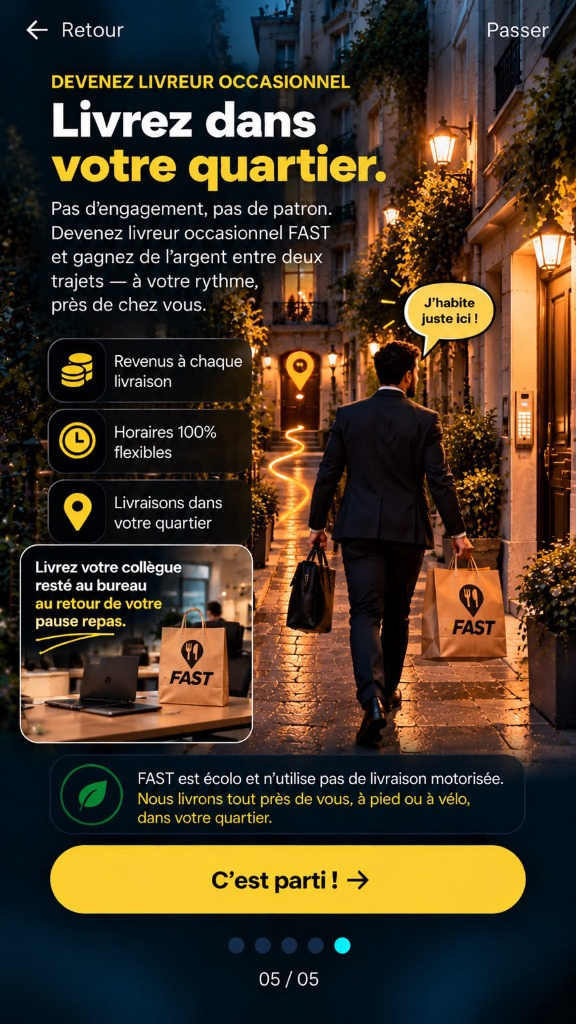
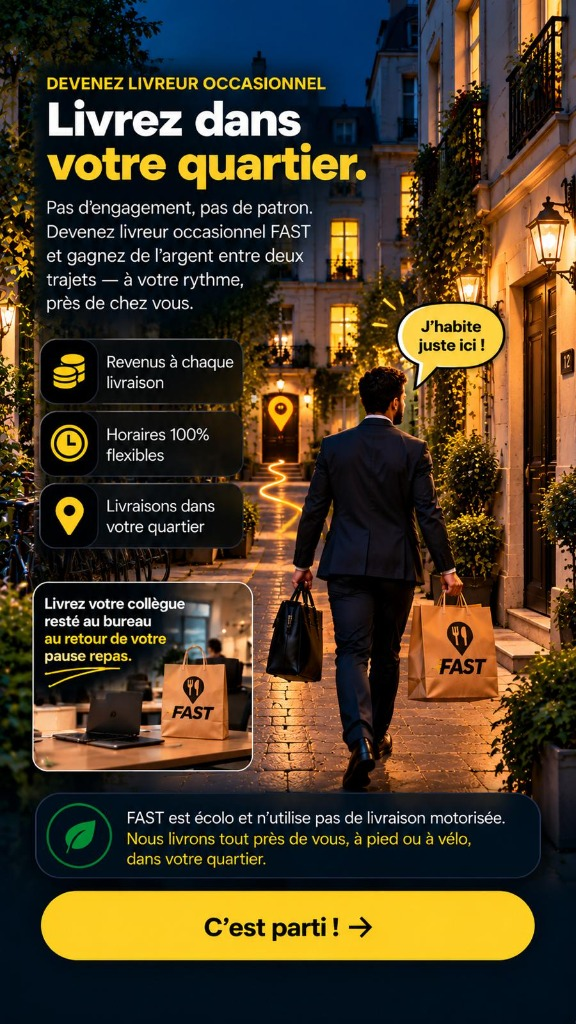
Intro slides: per-slide Suivant zones, fix Pro dot order, new client slide 4
The baked pill sits at a different height on every slide (Pro slide 2
notably higher), so hit zones are now one rect per image. Pro slides 3
and 4 are swapped to match the page dots drawn in the artwork. Client
slide 4 replaced with the dotless "C'est parti" artwork.

Generated with [Devin](https://devin.ai)

diff --git a/fastMobileApp/fastRestoBigbonney/test/widget_test.dart b/fastMobileApp/fastRestoBigbonney/test/widget_test.dart
@@ -170,72 +170,93 @@ void main() {
     await tester.pumpWidget(const SizedBox.shrink());
   });
 
-  testWidgets('Intro slides: baked buttons hit on a tall phone', (tester) async {
-    SharedPreferences.setMockInitialValues({});
-    // 9:19.5 phone — the 9:16 artwork must letterbox, not crop.
-    tester.view.physicalSize = const Size(1080, 2340);
-    tester.view.devicePixelRatio = 1;
-    addTearDown(tester.view.reset);
+  // Measured centre of the baked Suivant / Commencer / C'est parti pill on
+  // each slide (fractions of the 576x1024 artwork). The test taps these
+  // exact pixels, so a hit-zone regression on any slide fails it.
+  const proPillY = [0.905, 0.877, 0.902, 0.904];
+  const clientPillY = [0.886, 0.866, 0.866, 0.906];
 
-    var done = 0, back = 0;
-    PageController controllerOf(WidgetTester t) =>
-        t.widget<PageView>(find.byType(PageView)).controller!;
-    await tester.pumpWidget(
-      ChangeNotifierProvider(
-        create: (_) => FASTProvider(),
-        child: MaterialApp(
-          home: ProIntroSlides(
-            nextButtonRect: ProIntroSlides.clientNextRect,
-            onDone: () => done++,
-            onBack: () => back++,
+  for (final set in [
+    (name: 'Pro', images: ProIntroSlides.proImages,
+     rects: ProIntroSlides.proNextRects, pills: proPillY,
+     key: ProIntroSlides.proDismissedKey),
+    (name: 'client', images: ProIntroSlides.clientImages,
+     rects: ProIntroSlides.clientNextRects, pills: clientPillY,
+     key: ProIntroSlides.clientDismissedKey),
+  ]) {
+    testWidgets('${set.name} intro slides: baked buttons hit on a tall phone',
+        (tester) async {
+      SharedPreferences.setMockInitialValues({});
+      // 9:19.5 phone — the 9:16 artwork must letterbox, not crop.
+      tester.view.physicalSize = const Size(1080, 2340);
+      tester.view.devicePixelRatio = 1;
+      addTearDown(tester.view.reset);
+
+      var done = 0, back = 0;
+      PageController controllerOf(WidgetTester t) =>
+          t.widget<PageView>(find.byType(PageView)).controller!;
+      await tester.pumpWidget(
+        ChangeNotifierProvider(
+          create: (_) => FASTProvider(),
+          child: MaterialApp(
+            home: ProIntroSlides(
+              images: set.images,
+              nextButtonRects: set.rects,
+              dismissedPrefKey: set.key,
+              onDone: () => done++,
+              onBack: () => back++,
+            ),
           ),
         ),
-      ),
-    );
-    await tester.pump();
+      );
+      await tester.pump();
 
-    final fitted = applyBoxFit(
-      BoxFit.contain,
-      const Size(576, 1024),
-      const Size(1080, 2340),
-    ).destination;
-    expect(fitted.width, 1080);
-    expect(fitted.height, lessThan(2340));
-    final top = (2340 - fitted.height) / 2;
-    Offset at(double fx, double fy) =>
-        Offset(fx * fitted.width, top + fy * fitted.height);
+      final fitted = applyBoxFit(
+        BoxFit.contain,
+        const Size(576, 1024),
+        const Size(1080, 2340),
+      ).destination;
+      expect(fitted.width, 1080);
+      expect(fitted.height, lessThan(2340));
+      final top = (2340 - fitted.height) / 2;
+      Offset at(double fx, double fy) =>
+          Offset(fx * fitted.width, top + fy * fitted.height);
 
-    // Centre of the client "Suivant" pill → next page.
-    await tester.tapAt(at(0.5, 0.87));
-    await tester.pumpAndSettle();
-    expect(controllerOf(tester).page!.round(), 1);
-    // Retour → back to page 0.
-    await tester.tapAt(at(0.12, 0.03));
-    await tester.pumpAndSettle();
-    expect(controllerOf(tester).page!.round(), 0);
-    // Retour on first slide → onBack.
-    await tester.tapAt(at(0.12, 0.03));
-    await tester.pump();
-    expect(back, 1);
-    // Passer → onDone from anywhere.
-    await tester.tapAt(at(0.9, 0.03));
-    await tester.pump();
-    expect(done, 1);
-    // Suivant through to the last slide, then it completes.
-    for (var i = 0; i < 4; i++) {
-      await tester.tapAt(at(0.5, 0.87));
+      // Pill on slide 1 → page 2.
+      await tester.tapAt(at(0.5, set.pills[0]));
       await tester.pumpAndSettle();
-    }
-    expect(done, 2);
-    // Page dots / counter row (y≈0.95) must not be covered by the chip.
-    final chip = find.byIcon(Icons.check_box_outline_blank);
-    expect(chip, findsOneWidget);
-    expect(tester.getTopLeft(chip).dy, greaterThan(top + 0.975 * fitted.height));
-    await tester.tap(chip);
-    await tester.pump();
-    expect((await SharedPreferences.getInstance())
-        .getBool(ProIntroSlides.proDismissedKey), isTrue);
-    expect(tester.takeException(), isNull);
-    await tester.pumpWidget(const SizedBox.shrink());
-  });
+      expect(controllerOf(tester).page!.round(), 1);
+      // Retour → back to page 1.
+      await tester.tapAt(at(0.12, 0.03));
+      await tester.pumpAndSettle();
+      expect(controllerOf(tester).page!.round(), 0);
+      // Retour on first slide → onBack.
+      await tester.tapAt(at(0.12, 0.03));
+      await tester.pump();
+      expect(back, 1);
+      // Passer → onDone from anywhere.
+      await tester.tapAt(at(0.9, 0.03));
+      await tester.pump();
+      expect(done, 1);
+      // Each slide's own pill advances; the last one completes.
+      for (var i = 0; i < set.images.length; i++) {
+        await tester.tapAt(at(0.5, set.pills[i]));
+        await tester.pumpAndSettle();
+        expect(controllerOf(tester).page!.round(),
+            (i + 1).clamp(0, set.images.length - 1),
+            reason: 'pill on slide ${i + 1} should advance');
+      }
+      expect(done, 2);
+      // Page dots / counter row (y≈0.95) must not be covered by the chip.
+      final chip = find.byIcon(Icons.check_box_outline_blank);
+      expect(chip, findsOneWidget);
+      expect(tester.getTopLeft(chip).dy,
+          greaterThan(top + 0.975 * fitted.height));
+      await tester.tap(chip);
+      await tester.pump();
+      expect((await SharedPreferences.getInstance()).getBool(set.key), isTrue);
+      expect(tester.takeException(), isNull);
+      await tester.pumpWidget(const SizedBox.shrink());
+    });
+  }
 }

diff --git a/fastMobileApp/fastRestoBigbonney/lib/screens/resto/pro_intro_slides.dart b/fastMobileApp/fastRestoBigbonney/lib/screens/resto/pro_intro_slides.dart
@@ -28,18 +28,44 @@ class ProIntroSlides extends StatefulWidget {
   /// ticks "don't show again".
   final String dismissedPrefKey;
 
-  /// Where the baked Suivant / Commencer pill sits, as fractions of the
-  /// artwork (0..1 in both axes). The Pro and client sets were drawn
-  /// with the pill at different heights.
-  final Rect nextButtonRect;
+  /// Where the baked Suivant / Commencer pill sits on each slide, as
+  /// fractions of the artwork (0..1 in both axes). The pill was drawn
+  /// at a slightly different height on every slide, so one rect per
+  /// image; a shorter list falls back to its last entry.
+  final List<Rect> nextButtonRects;
 
   static const String proDismissedKey = 'fast_pro_intro_dismissed';
   static const String clientDismissedKey = 'fast_client_intro_dismissed';
 
   /// All artwork is 576x1024 — the hit zones below are measured on it.
   static const double artAspect = 576 / 1024;
-  static const Rect proNextRect = Rect.fromLTRB(0.06, 0.862, 0.94, 0.948);
-  static const Rect clientNextRect = Rect.fromLTRB(0.08, 0.812, 0.92, 0.93);
+
+  /// Ordered by the page dots baked into the artwork: slide 3's art
+  /// lights dot 4 and slide 4's lights dot 3, hence the swap.
+  static const List<String> proImages = [
+    'assets/images/pro_tuto_1.jpg',
+    'assets/images/pro_tuto_2.jpg',
+    'assets/images/pro_tuto_4.jpg',
+    'assets/images/pro_tuto_3.jpg',
+  ];
+  static const List<Rect> proNextRects = [
+    Rect.fromLTRB(0.06, 0.858, 0.94, 0.950), // géolocalisation
+    Rect.fromLTRB(0.04, 0.830, 0.96, 0.924), // IA menus
+    Rect.fromLTRB(0.04, 0.856, 0.96, 0.948), // visibilité
+    Rect.fromLTRB(0.04, 0.858, 0.96, 0.950), // main-d'œuvre
+  ];
+  static const List<String> clientImages = [
+    'assets/images/client_tuto_1.jpg',
+    'assets/images/client_tuto_2.jpg',
+    'assets/images/client_tuto_3.jpg',
+    'assets/images/client_tuto_4.jpg',
+  ];
+  static const List<Rect> clientNextRects = [
+    Rect.fromLTRB(0.08, 0.836, 0.92, 0.936), // Commencer
+    Rect.fromLTRB(0.08, 0.816, 0.92, 0.916), // GPS
+    Rect.fromLTRB(0.08, 0.816, 0.92, 0.916), // proximité
+    Rect.fromLTRB(0.06, 0.860, 0.94, 0.952), // C'est parti
+  ];
   static const Rect _retourRect = Rect.fromLTRB(0.0, 0.0, 0.28, 0.075);
   static const Rect _passerRect = Rect.fromLTRB(0.76, 0.0, 1.0, 0.075);
 
@@ -47,15 +73,13 @@ class ProIntroSlides extends StatefulWidget {
     super.key,
     required this.onDone,
     this.onBack,
-    this.images = const [
-      'assets/images/pro_tuto_1.jpg',
-      'assets/images/pro_tuto_2.jpg',
-      'assets/images/pro_tuto_3.jpg',
-      'assets/images/pro_tuto_4.jpg',
-    ],
+    this.images = proImages,
     this.dismissedPrefKey = proDismissedKey,
-    this.nextButtonRect = proNextRect,
+    this.nextButtonRects = proNextRects,
   });
+
+  Rect nextRectFor(int index) =>
+      nextButtonRects[index.clamp(0, nextButtonRects.length - 1)];
 
   /// True when the user previously ticked "don't show again".
   static Future<bool> isDismissed([
@@ -175,7 +199,7 @@ class _ProIntroSlidesState extends State<ProIntroSlides> {
               // Passer — baked top-right
               _zone(art, ProIntroSlides._passerRect, widget.onDone),
               // Suivant / Commencer — baked bottom pill (last slide completes)
-              _zone(art, widget.nextButtonRect, _suivant),
+              _zone(art, widget.nextRectFor(_index), _suivant),
               // "Ne plus afficher" — the artwork has no such control, so
               // this one is rendered live. It sits in the letterbox band
               // under the artwork when there is one, otherwise in the

diff --git a/fastMobileApp/fastRestoBigbonney/lib/screens/client_intro_gate.dart b/fastMobileApp/fastRestoBigbonney/lib/screens/client_intro_gate.dart
@@ -14,13 +14,6 @@ class ClientIntroGate extends StatefulWidget {
 }
 
 class _ClientIntroGateState extends State<ClientIntroGate> {
-  static const _images = [
-    'assets/images/client_tuto_1.jpg',
-    'assets/images/client_tuto_2.jpg',
-    'assets/images/client_tuto_3.jpg',
-    'assets/images/client_tuto_4.jpg',
-  ];
-
   bool? _dismissed; // null = still reading prefs
   bool _done = false;
 
@@ -44,9 +37,9 @@ class _ClientIntroGateState extends State<ClientIntroGate> {
       );
     }
     return ProIntroSlides(
-      images: _images,
+      images: ProIntroSlides.clientImages,
       dismissedPrefKey: ProIntroSlides.clientDismissedKey,
-      nextButtonRect: ProIntroSlides.clientNextRect,
+      nextButtonRects: ProIntroSlides.clientNextRects,
       onDone: () => setState(() => _done = true),
     );
   }
